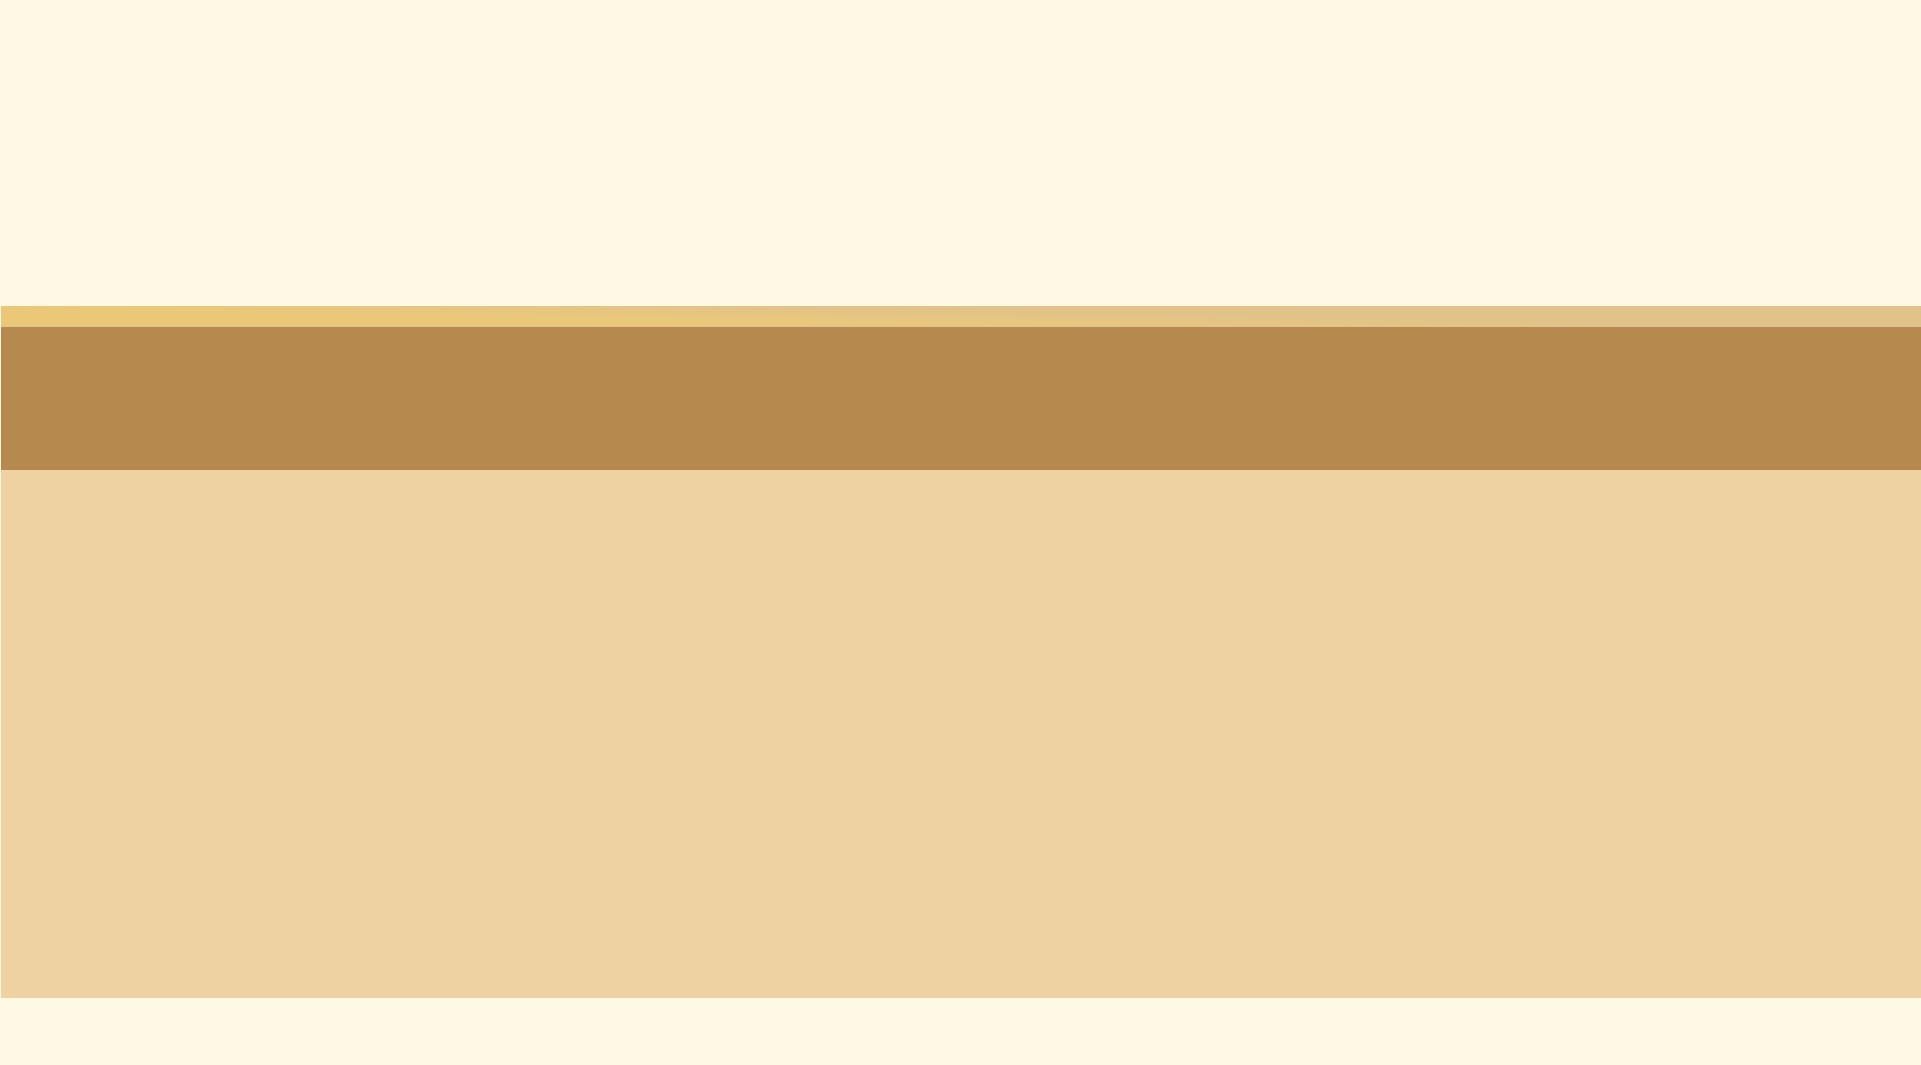
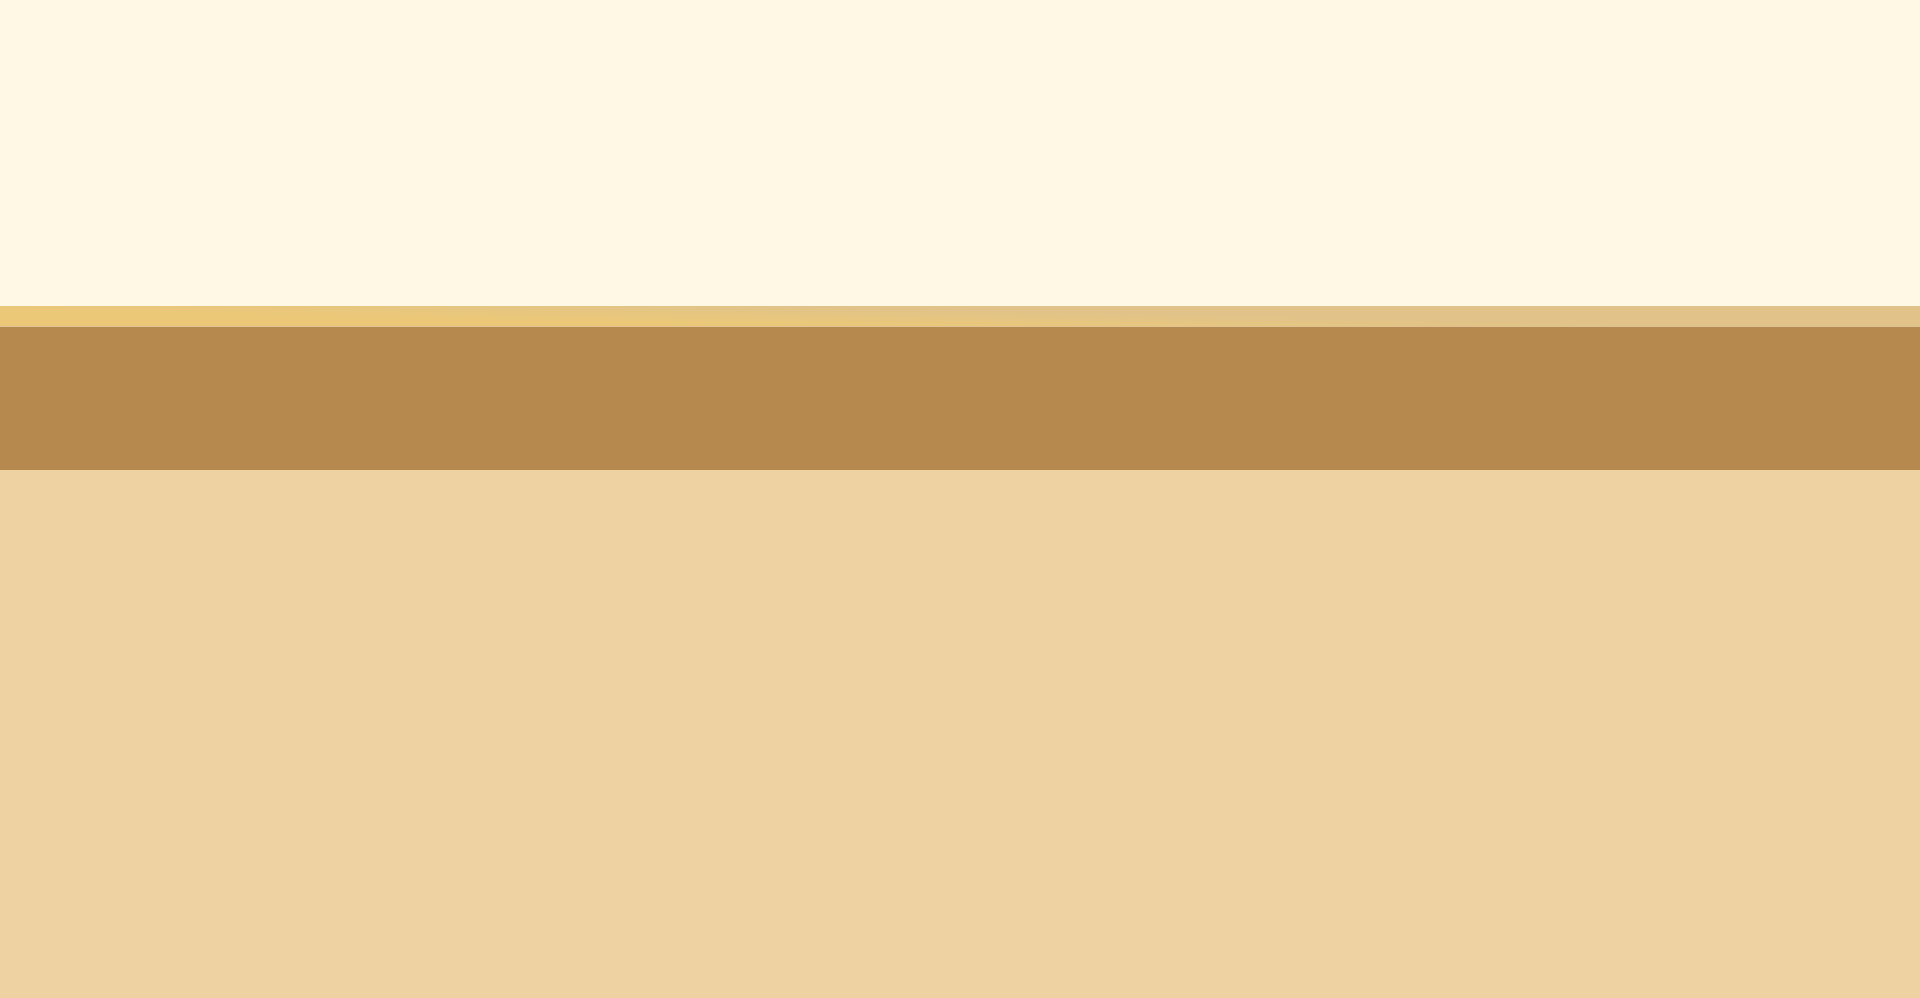
首頁更新

Changed region(s): [[0.0, 0.9319, 1.0, 1.0], [0.0, 0.4349, 1.0, 0.497], [0.0, 0.2796, 1.0, 0.3417]]

diff --git a/css/index.css b/css/index.css
@@ -174,7 +174,7 @@
   position: relative;
   width: 100%;
   z-index: 3;
-  padding-bottom: 54%;
+  padding-bottom: 56%;
 }
 .love-cp {
   position: absolute;
@@ -227,7 +227,7 @@
 .diy-ice-bgc {
   position: absolute;
   width: 100%;
-  top: 9.5%;
+  top: 7.5%;
   z-index: 4;
 }
 .ice-panel {
@@ -241,12 +241,28 @@
   border-radius: 5%;
   text-align: center;
   border: 4px solid #6a3e26;
-  background-color: #ffffff;
+  background-color: #f3e6c4;
+}
+.panel-button-item-group {
+  margin: 0 auto;
+  display: flex;
+  flex-wrap: wrap;
+  justify-content: space-around;
+  width: 90%;
+  height: 70%;
+}
+.panel-button-bottom {
+  width: 38%;
+  height: 42%;
+  border-radius: 10%;
+  border: 4px solid #6a3e26;
+  background-color: #f3e6c4;
 }
 .ice-panel h3 {
   font-family: "A-OTF-M";
   font-size: 20px;
   color: #6a3e26;
+  margin-bottom: 3%;
 }
 .model-general {
   position: absolute;

diff --git a/index.html b/index.html
@@ -167,7 +167,12 @@
       />
       <div class="ice-panel">
         <h3>選擇製冰容器</h3>
-        <div class="panel-button-bottom"></div>
+        <div class="panel-button-item-group">
+          <div class="panel-button-bottom"></div>
+          <div class="panel-button-bottom"></div>
+          <div class="panel-button-bottom"></div>
+          <div class="panel-button-bottom"></div>
+        </div>
       </div>
       <img
         class="model-general"
